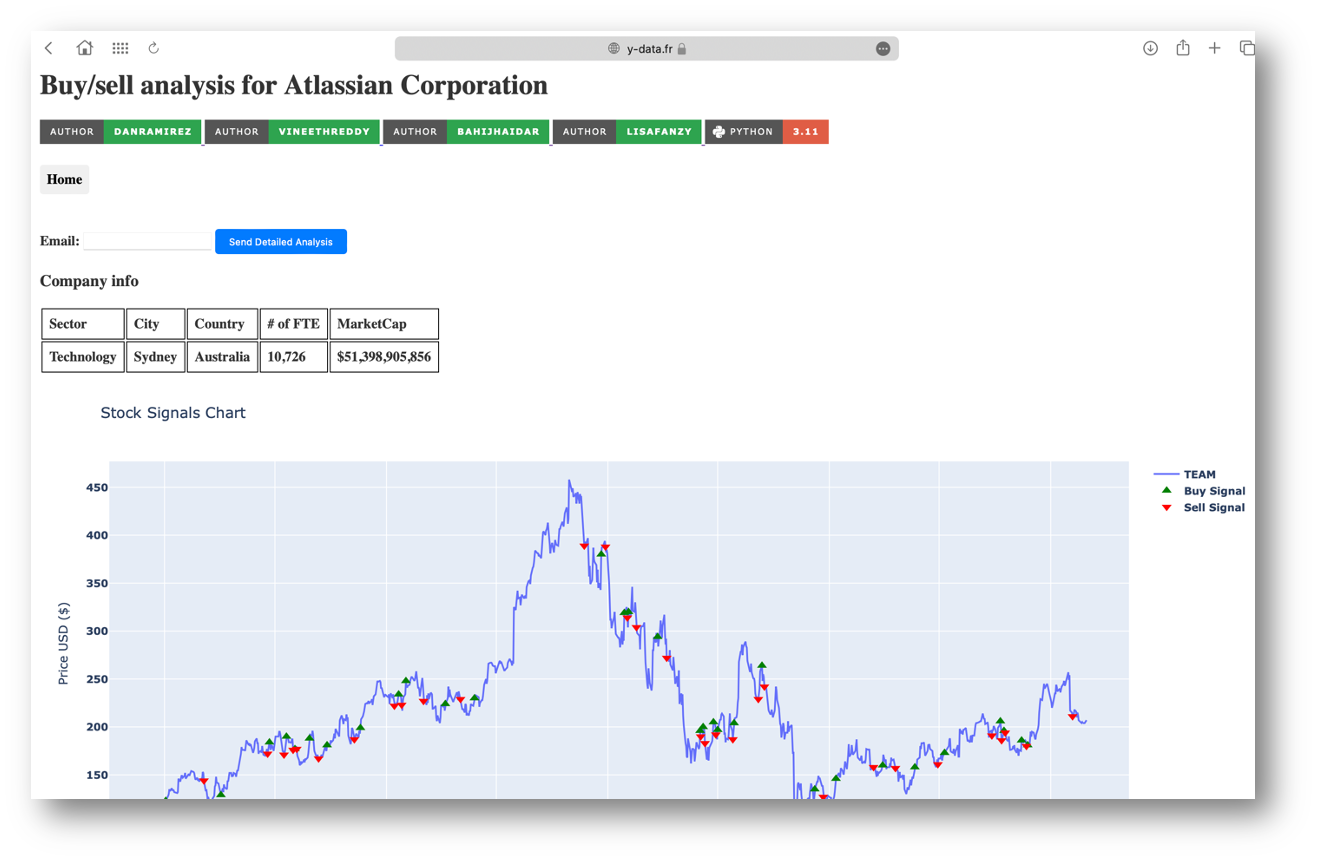
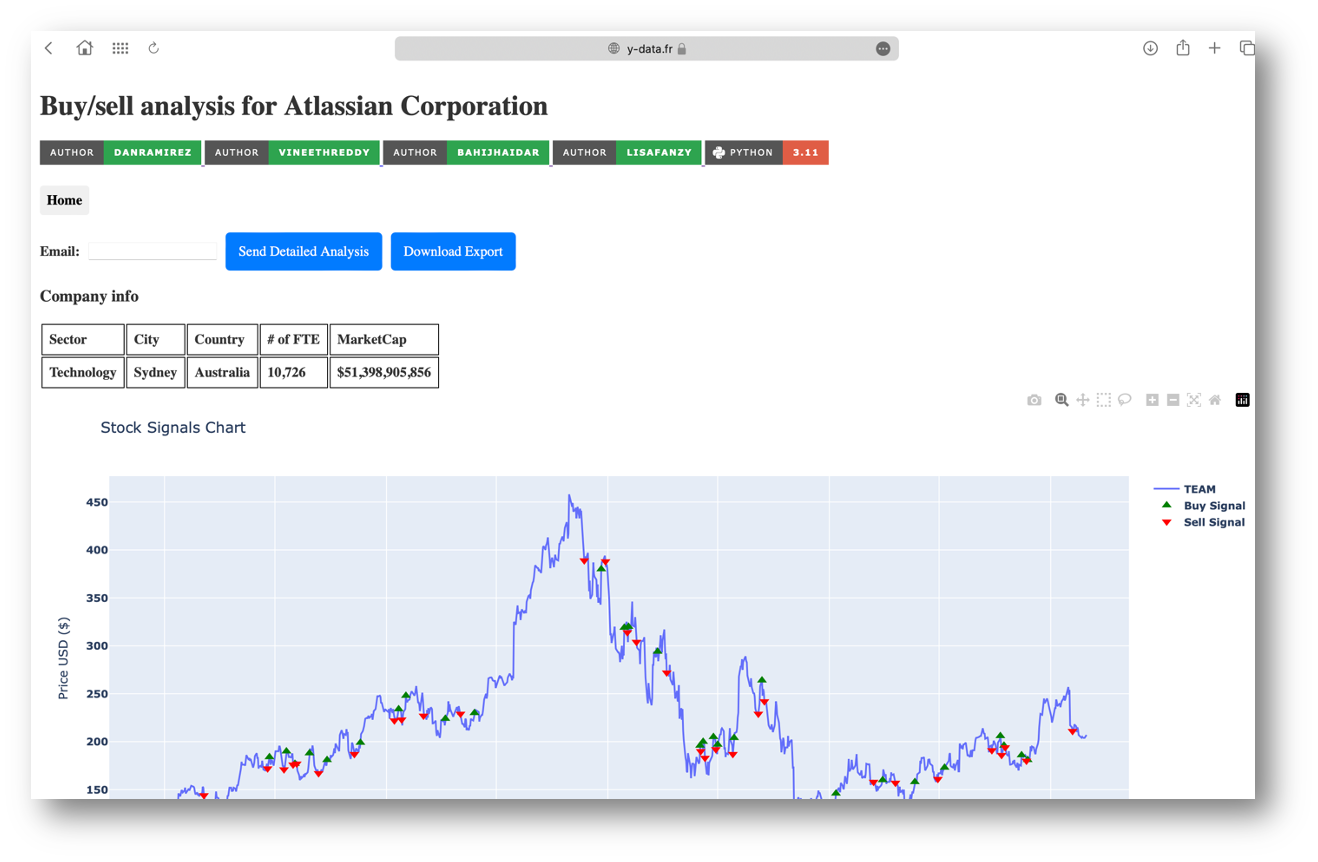
readme

diff --git a/Readme.md b/Readme.md
@@ -42,7 +42,7 @@ For our project, Python files **2.** and **3.** are our core delivery.
 Our home page where you enter your stock symbol and adjust Hyperparameters, **note**: keeping the defaults will run the fastest.
 <img src="https://github.com/Dandata0101/mbs-Stock-singal-project/blob/main/04-readme-images/Home.png" alt="Home" style="width:2200;height:400;"> 
 
-Results 1 section shows basic information the the company and charts our Buy/Sell Signals.
+Results 1 section shows basic information the the company and charts our Buy/Sell Signals. At the top of the page, you have the option to email the report or download it to your desktop :floppy_disk: :arrow_right: :computer:.
 <img src="https://github.com/Dandata0101/mbs-Stock-singal-project/blob/main/04-readme-images/results1.png" alt="Results1" style="width:2200;height:400;"> 
 
 Results 2 section show our final profit from our simulation and provides model performance Statistics.
